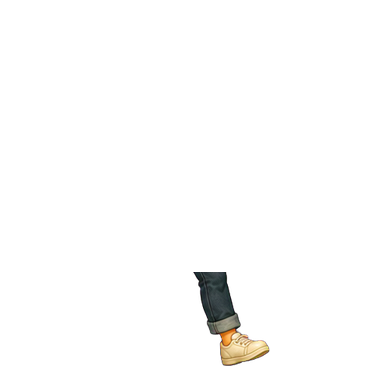
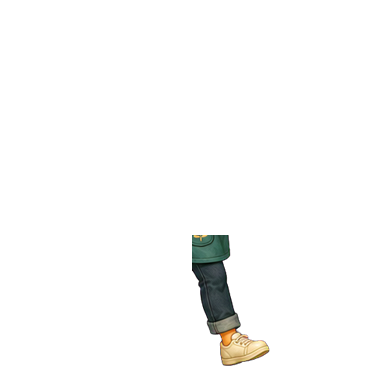
Align market helper and goals progress

Changed region(s): [[0.5, 0.5938, 0.625, 0.7188]]

diff --git a/idle/app.js b/idle/app.js
@@ -1441,7 +1441,7 @@
     dom.oreCount.textContent = formatNumber(compoActive ? compo.ore : state.ore);
     dom.farmNavLabel.textContent = compoActive ? "Fish" : "Farm";
     dom.marketNavLabel.textContent = compoActive ? "Beach Market" : "Market";
-    dom.goalsNavLabel.textContent = compoActive ? "Compo" : "Goals";
+    dom.goalsNavLabel.textContent = "Goals";
     const level = compoActive ? getCompoLevelInfo(compo.xp) : getLevelInfo();
     const season = currentSeason();
     const next = nextSeason();
@@ -2510,6 +2510,26 @@
     dom.lessonProgressLabel.textContent = `${step} / 3 for bonus crate`;
   }
 
+  function goalSectionHeading(kicker, title, copy) {
+    return `<article class="goal-section-heading"><small>${escapeHtml(kicker)}</small><h3>${escapeHtml(title)}</h3><p>${escapeHtml(copy)}</p></article>`;
+  }
+
+  function compoWorldComplete(compo = getCompo()) {
+    return beachSpotCount(compo) >= compo.spots.length
+      && Object.values(compo.buildings).every((level) => level >= MAX_BUILDING_LEVEL)
+      && Object.values(compo.habitats).every((level) => level >= 3);
+  }
+
+  function globalRoadmapStatus(index) {
+    if (index === 0) return riverTownComplete() || state.districts.compo ? "complete" : state.activeRegion === "coleytown" ? "active" : "future";
+    if (index === 1) return compoWorldComplete() ? "complete" : state.activeRegion === "compo" || state.districts.compo ? "active" : "future";
+    return "future";
+  }
+
+  function globalRoadmapCard() {
+    return `<article class="roadmap-card global-roadmap-card"><small>Long-term game progress</small><h3>Farm town → modern Westport</h3><div class="roadmap-line">${WESTPORT_ROADMAP.map((stop,index)=>`<span class="roadmap-stop ${globalRoadmapStatus(index)}"><i>${index+1}</i><b>${stop.name}</b><small>${stop.detail}</small></span>`).join("")}</div></article>`;
+  }
+
   function renderGoals() {
     if (isCompoActive()) {
       renderBeachGoals();
@@ -2563,8 +2583,8 @@
     const completedPieces = Object.values(state.buildings).filter((level) => level >= MAX_BUILDING_LEVEL).length + Object.values(state.animals).filter((level) => level >= 3).length + (state.plots.every((plot) => !plot?.locked) ? 1 : 0);
     const coastProgress = completedPieces / 7 * 100;
     const coastProject = `<article class="project-card expansion-project"><span class="project-icon" aria-hidden="true">☀</span><div class="project-copy"><h3>Open Compo Coast</h3><p>${state.districts.compo ? "Unlocked — switch regions on the town map to visit the coast." : "Finish all River Town buildings, habitats, and garden plots to open a whole new seaside screen."}</p><div class="project-progress"><span style="width:${state.districts.compo ? 100 : coastProgress}%"></span></div></div><div class="project-action"><small>${state.districts.compo ? "Coast unlocked" : `${completedPieces} / 7 town goals`}</small><button data-open-region="compo" type="button" ${state.districts.compo ? "" : "disabled"}>${state.districts.compo ? "Visit coast" : "Keep building"}</button></div></article>`;
-    const roadmap = `<article class="roadmap-card"><small>Long-term world map</small><h3>Farm town → modern Westport</h3><div class="roadmap-line">${WESTPORT_ROADMAP.map((stop,index)=>`<span class="roadmap-stop ${index === 0 ? "complete" : index === 1 && state.districts.compo ? "complete" : stop.status}"><i>${index+1}</i><b>${stop.name}</b><small>${stop.detail}</small></span>`).join("")}</div></article>`;
-    dom.projectList.innerHTML = [farmProject, ...projects, ...animalProjects, coastProject, roadmap].join("");
+    const worldHeader = goalSectionHeading("World progress", "River Town progress", "Finish the farm, buildings, and habitats that make the first screen feel alive.");
+    dom.projectList.innerHTML = [worldHeader, farmProject, ...projects, ...animalProjects, coastProject, globalRoadmapCard()].join("");
     const level = getLevelInfo();
     dom.milestoneName.textContent = level.capped ? "A thriving Coleytown" : level.next.name;
     dom.milestoneCopy.textContent = level.capped ? "You’ve reached the current town milestone. Keep growing!" : "Earn town XP by planting, harvesting, learning, and building.";
@@ -2626,7 +2646,8 @@
       { name: "Modern coast", detail: "Homes, apartments, and full Compo identity", complete: compoDevelopmentCount(compo) >= 18 },
     ];
     const roadmap = `<article class="roadmap-card"><small>Compo Beach evolution</small><h3>Fishing shore → modern coast</h3><div class="roadmap-line">${coastStops.map((stop,index)=>`<span class="roadmap-stop ${stop.complete ? "complete" : index === 1 ? "active" : "future"}"><i>${index+1}</i><b>${stop.name}</b><small>${stop.detail}</small></span>`).join("")}</div></article>`;
-    dom.projectList.innerHTML = [spotProject, ...buildingProjects, ...habitatProjects, roadmap].join("");
+    const worldHeader = goalSectionHeading("World progress", "Compo Coast progress", "Build the beach economy, town center, boat, lodging, and modern coast identity.");
+    dom.projectList.innerHTML = [worldHeader, spotProject, ...buildingProjects, ...habitatProjects, roadmap, globalRoadmapCard()].join("");
     const level = getCompoLevelInfo(compo.xp);
     dom.milestoneName.textContent = level.capped ? "A thriving Compo Coast" : level.next.name;
     dom.milestoneCopy.textContent = level.capped ? "You’ve reached the current Compo milestone. Keep building the shoreline!" : "Earn coast XP by fishing, learning, selling, crafting, and building Compo Beach.";

diff --git a/idle/styles.css b/idle/styles.css
@@ -268,7 +268,7 @@ svg { display: block; }
 .walker-torso { z-index:3; }
 .walker-leg { z-index:1; transform-origin:50% 60%; animation:walker-leg-front 800ms cubic-bezier(.45,.05,.55,.95) infinite; }
 .walker-leg-back { z-index:0; animation-name:walker-leg-back; }
-.walker-vendor { --walker-scale:.94; left:54%; top:58%; scale:var(--walker-scale); }
+.walker-vendor { --walker-scale:.86; left:54%; top:58%; scale:var(--walker-scale); }
 .walker-teacher { --walker-scale:.82; left:22%; top:40%; scale:var(--walker-scale); }
 .walker-farmer { --walker-scale:1; left:7%; top:55%; scale:var(--walker-scale); }
 @keyframes walker-leg-front { 0%,100% { transform:rotate(-17deg); } 50% { transform:rotate(17deg); } }
@@ -523,6 +523,10 @@ svg { display: block; }
 
 .goals-layout { display: grid; grid-template-columns: minmax(0, 1fr) 300px; gap: 24px; max-width: 1060px; margin: 22px auto 0; }
 .project-list { display: grid; gap: 12px; }
+.goal-section-heading { padding: 16px 18px; border: 1px solid rgba(255,255,255,.58); border-radius: 20px; background: linear-gradient(135deg, rgba(255,249,232,.94), rgba(229,240,217,.92)); box-shadow: var(--shadow-sm); }
+.goal-section-heading small { display:block; margin-bottom:4px; color:var(--pumpkin-dark); font-size:9px; font-weight:900; text-transform:uppercase; letter-spacing:.12em; }
+.goal-section-heading h3 { margin:0 0 4px; font:800 20px/1.05 "Fraunces",serif; color:var(--forest-950); }
+.goal-section-heading p { margin:0; color:var(--muted); font-size:10px; line-height:1.4; }
 .project-card { display: grid; grid-template-columns: 58px 1fr auto; gap: 15px; align-items: center; padding: 17px; border: 1px solid var(--cream-300); border-radius: 21px; background: #fff; box-shadow: var(--shadow-sm); }
 .project-card.project-building { border-color: #e9b85d; background: #fff9e8; }
 .project-card.project-building .project-icon { animation: construction-pop 900ms ease-in-out infinite alternate; }

diff --git a/idle/sw.js b/idle/sw.js
@@ -1,4 +1,4 @@
-const CACHE_NAME = "idle-town-pwa-cache-v19";
+const CACHE_NAME = "idle-town-pwa-cache-v20";
 const CROP_FILES = ["carrot", "wheat", "strawberry", "pumpkin", "blueberry", "apple"].flatMap((crop) =>
   ["soil", "sprout", "young", "mature"].map((stage) => `./assets/art/living-world/crops/${crop}-${stage}.png`)
 );
